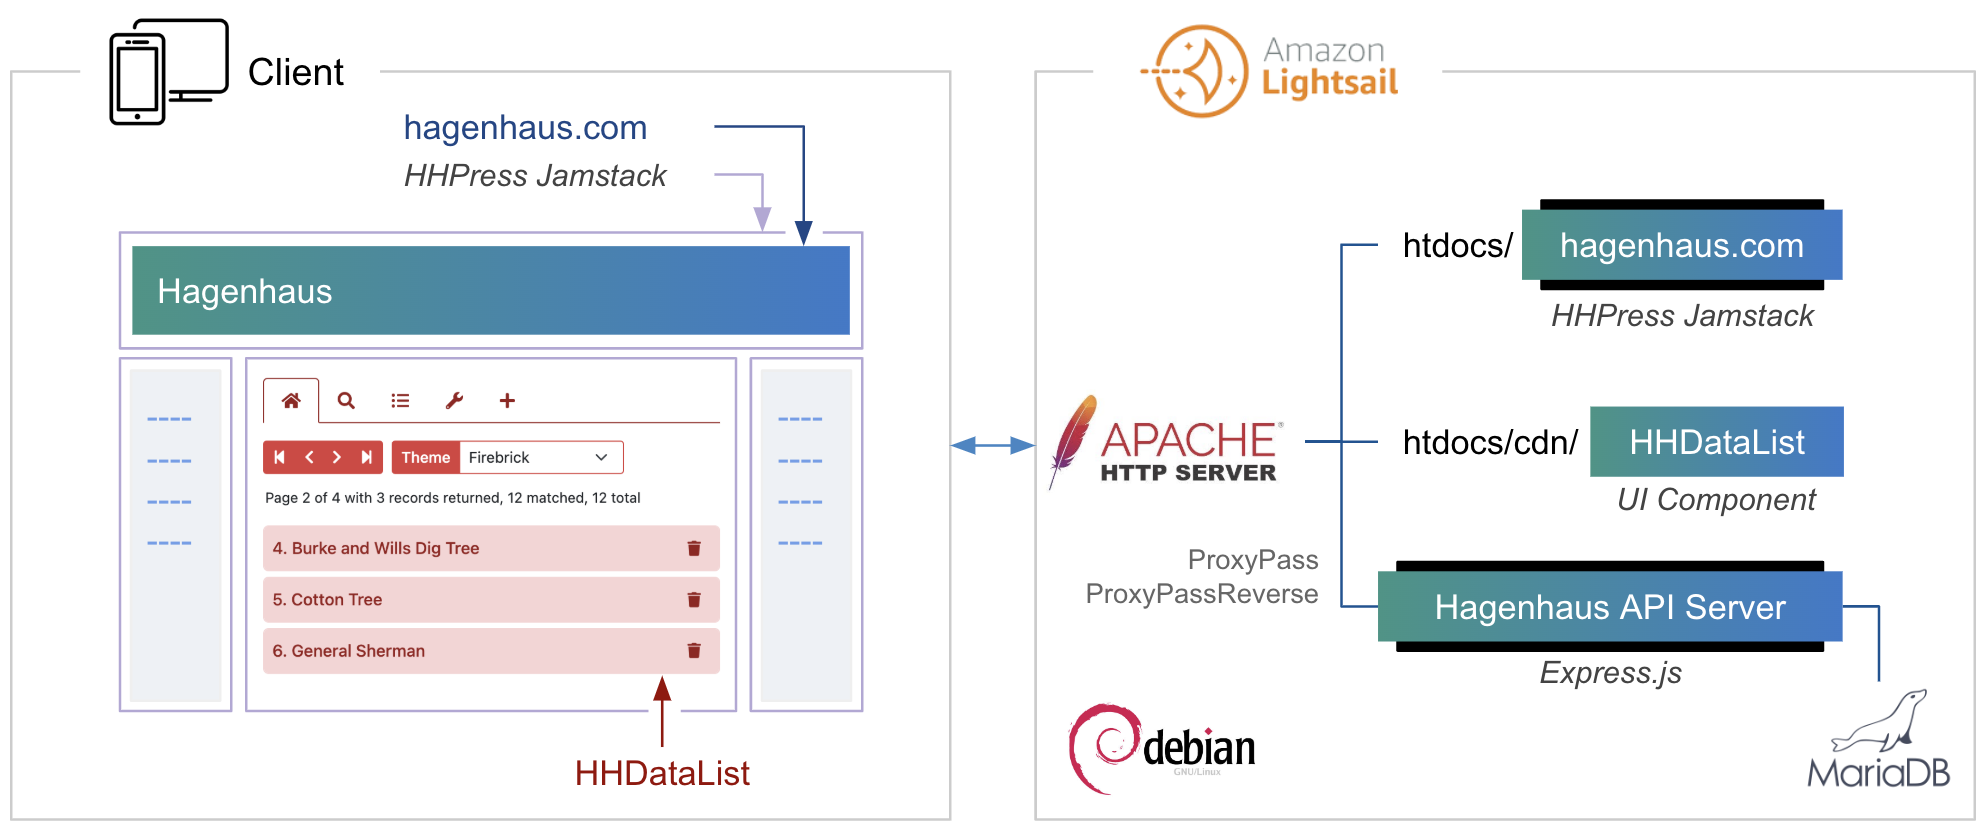
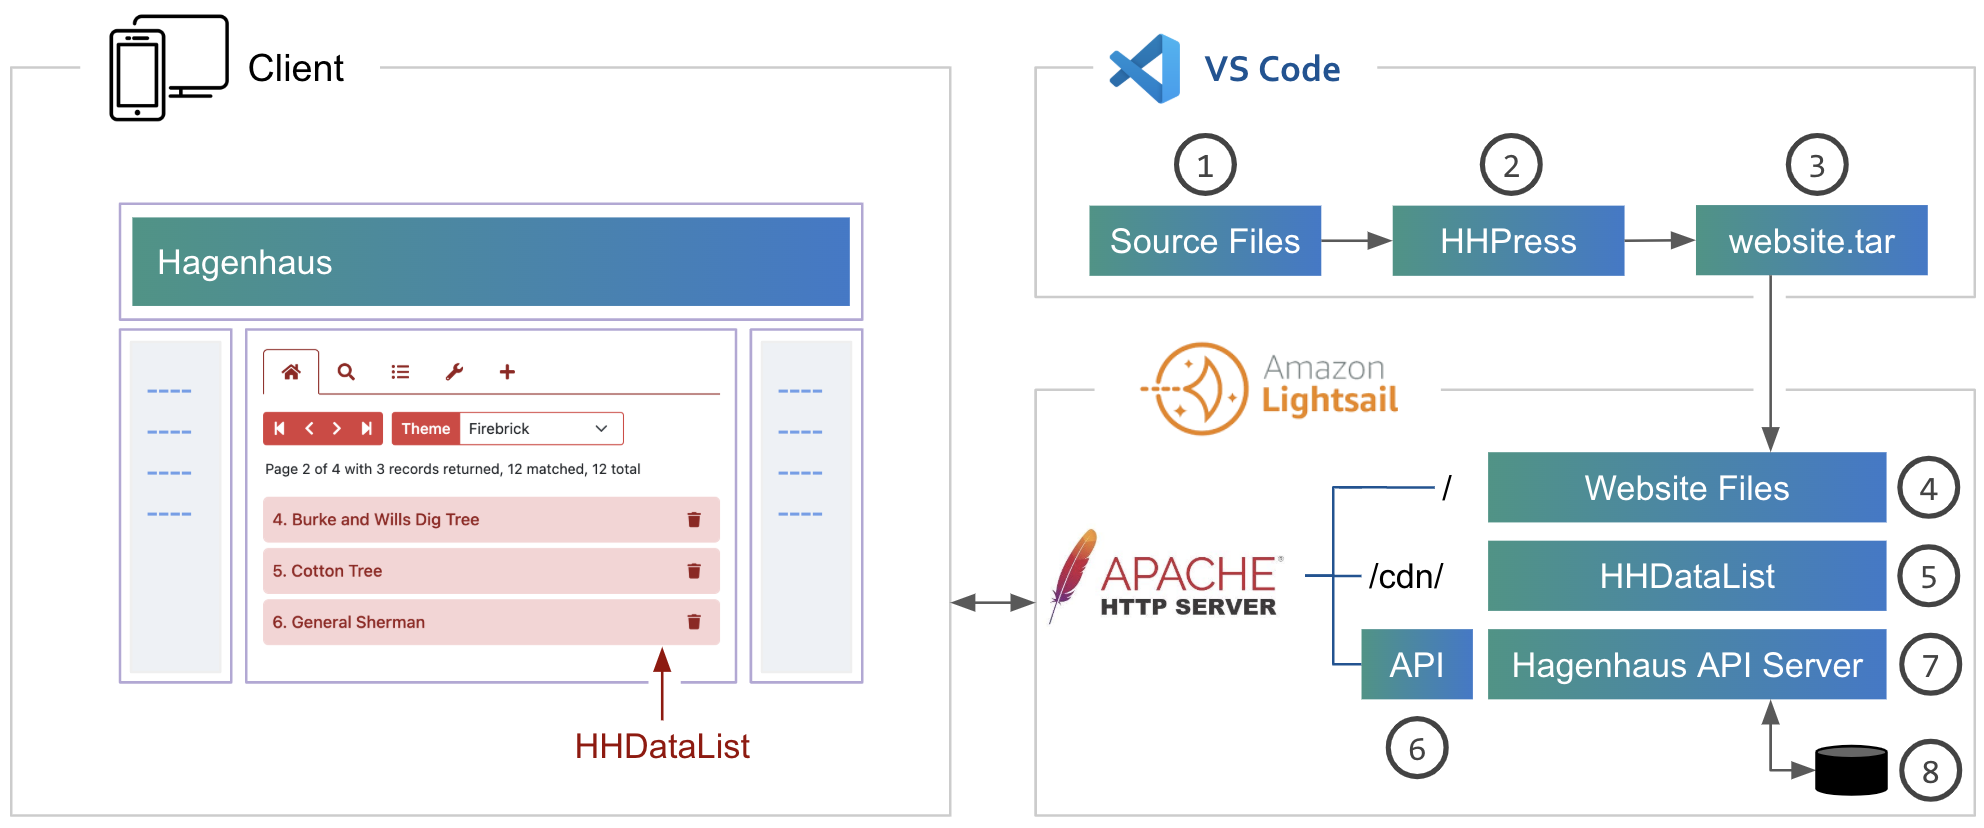
Re-drawing website diagram.

diff --git a/en/website/index.md b/en/website/index.md
@@ -16,10 +16,28 @@ The diagram below illustrates the primary building blocks of my website:
     <div><img src="webapp-h.png" class="img-fluid d-block" width="900" height="376"; loading="lazy"></div>
   </div>
   <div class="d-md-none">
-    <div><img src="webapp-v1.png" class="img-fluid d-block" height="384"; loading="lazy"></div>
-    <div><img src="webapp-v2.png" class="img-fluid d-block" height="384"; loading="lazy"></div>
+    <div><img src="webapp-v1.png" class="img-fluid d-block" height="390"; loading="lazy"></div>
+    <div><img src="webapp-v2.png" class="img-fluid d-block" height="376"; loading="lazy"></div>
   </div>
 </div>
+
+The numbers in the diagram correspond to the following:
+
+1. Source Files. 
+
+1. HHPress Jamstack. 
+
+1. website.tar.
+
+1. Website Files. 
+
+1. HHDataList.
+
+1. Hagenhaus API.
+
+1. Hagenhaus API Server.
+
+1. Database.
 
 ### HHPress Jamstack
 
